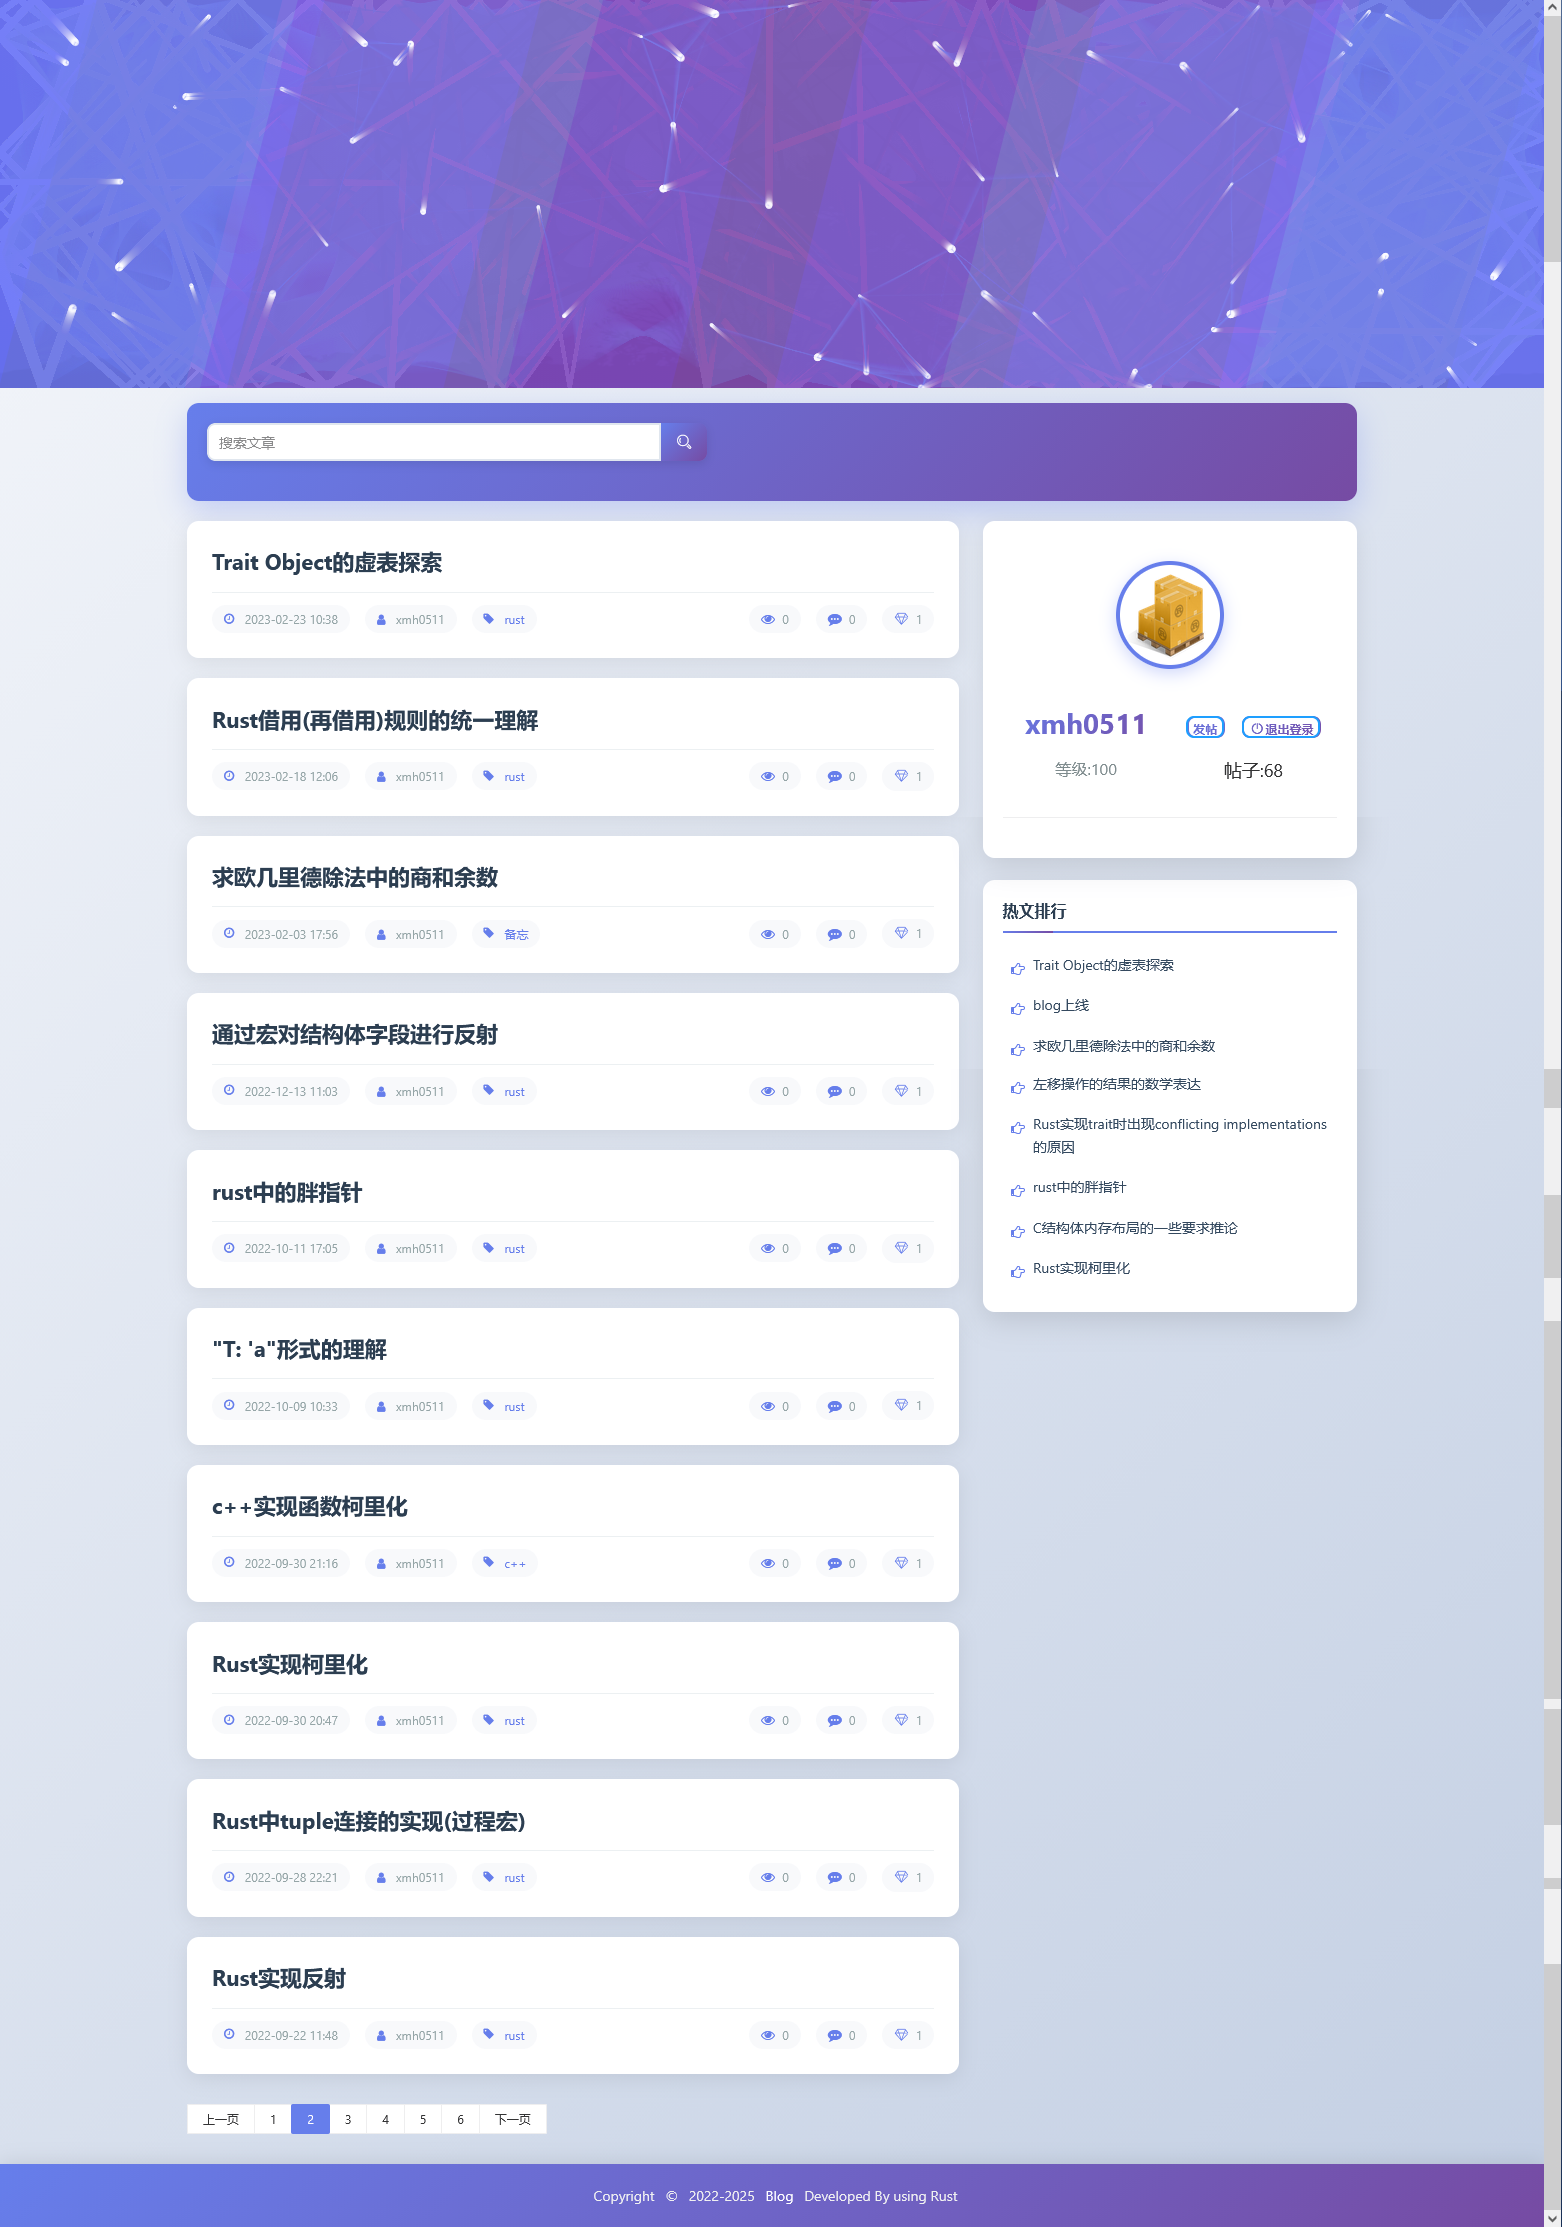
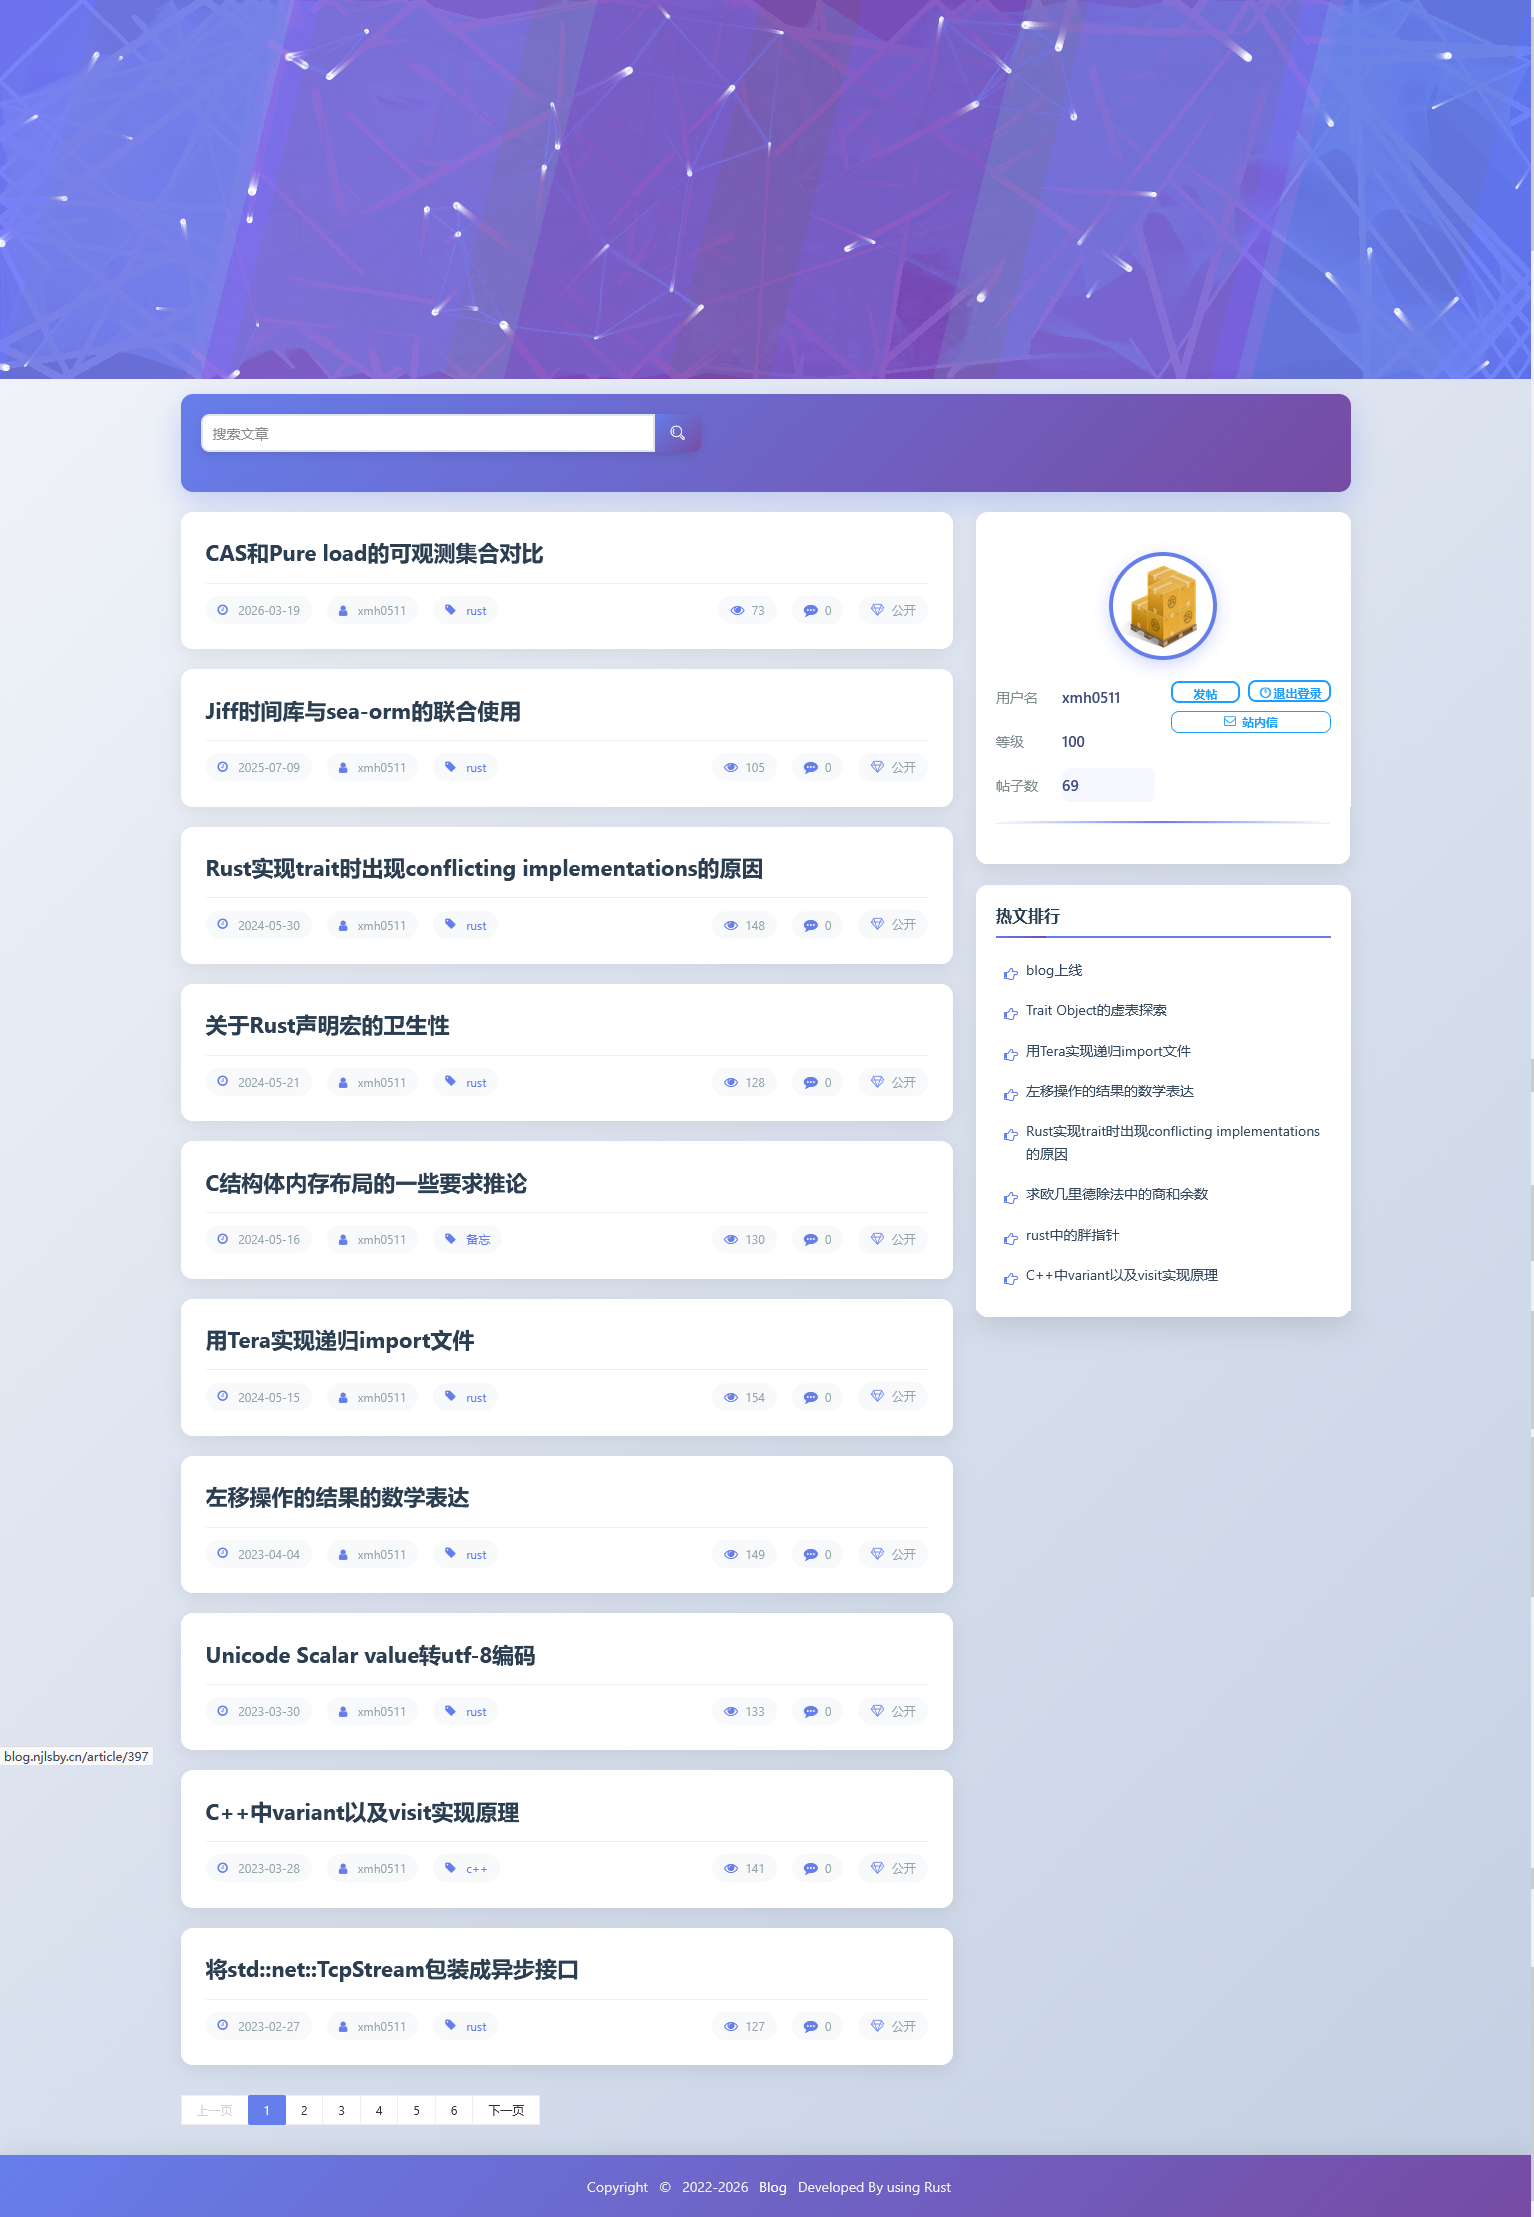
u

diff --git a/README.md b/README.md
@@ -126,3 +126,7 @@ cargo run
 ![](https://github.com/xmh0511/salvo-blog/blob/main/preview/preview4.png)
 ![](https://github.com/xmh0511/salvo-blog/blob/main/preview/preview5.png)
 ![](https://github.com/xmh0511/salvo-blog/blob/main/preview/preview6.png)
+![](https://github.com/xmh0511/salvo-blog/blob/main/preview/preview7.png)
+![](https://github.com/xmh0511/salvo-blog/blob/main/preview/preview8.png)
+![](https://github.com/xmh0511/salvo-blog/blob/main/preview/preview9.png)
+![](https://github.com/xmh0511/salvo-blog/blob/main/preview/preview10.png)
